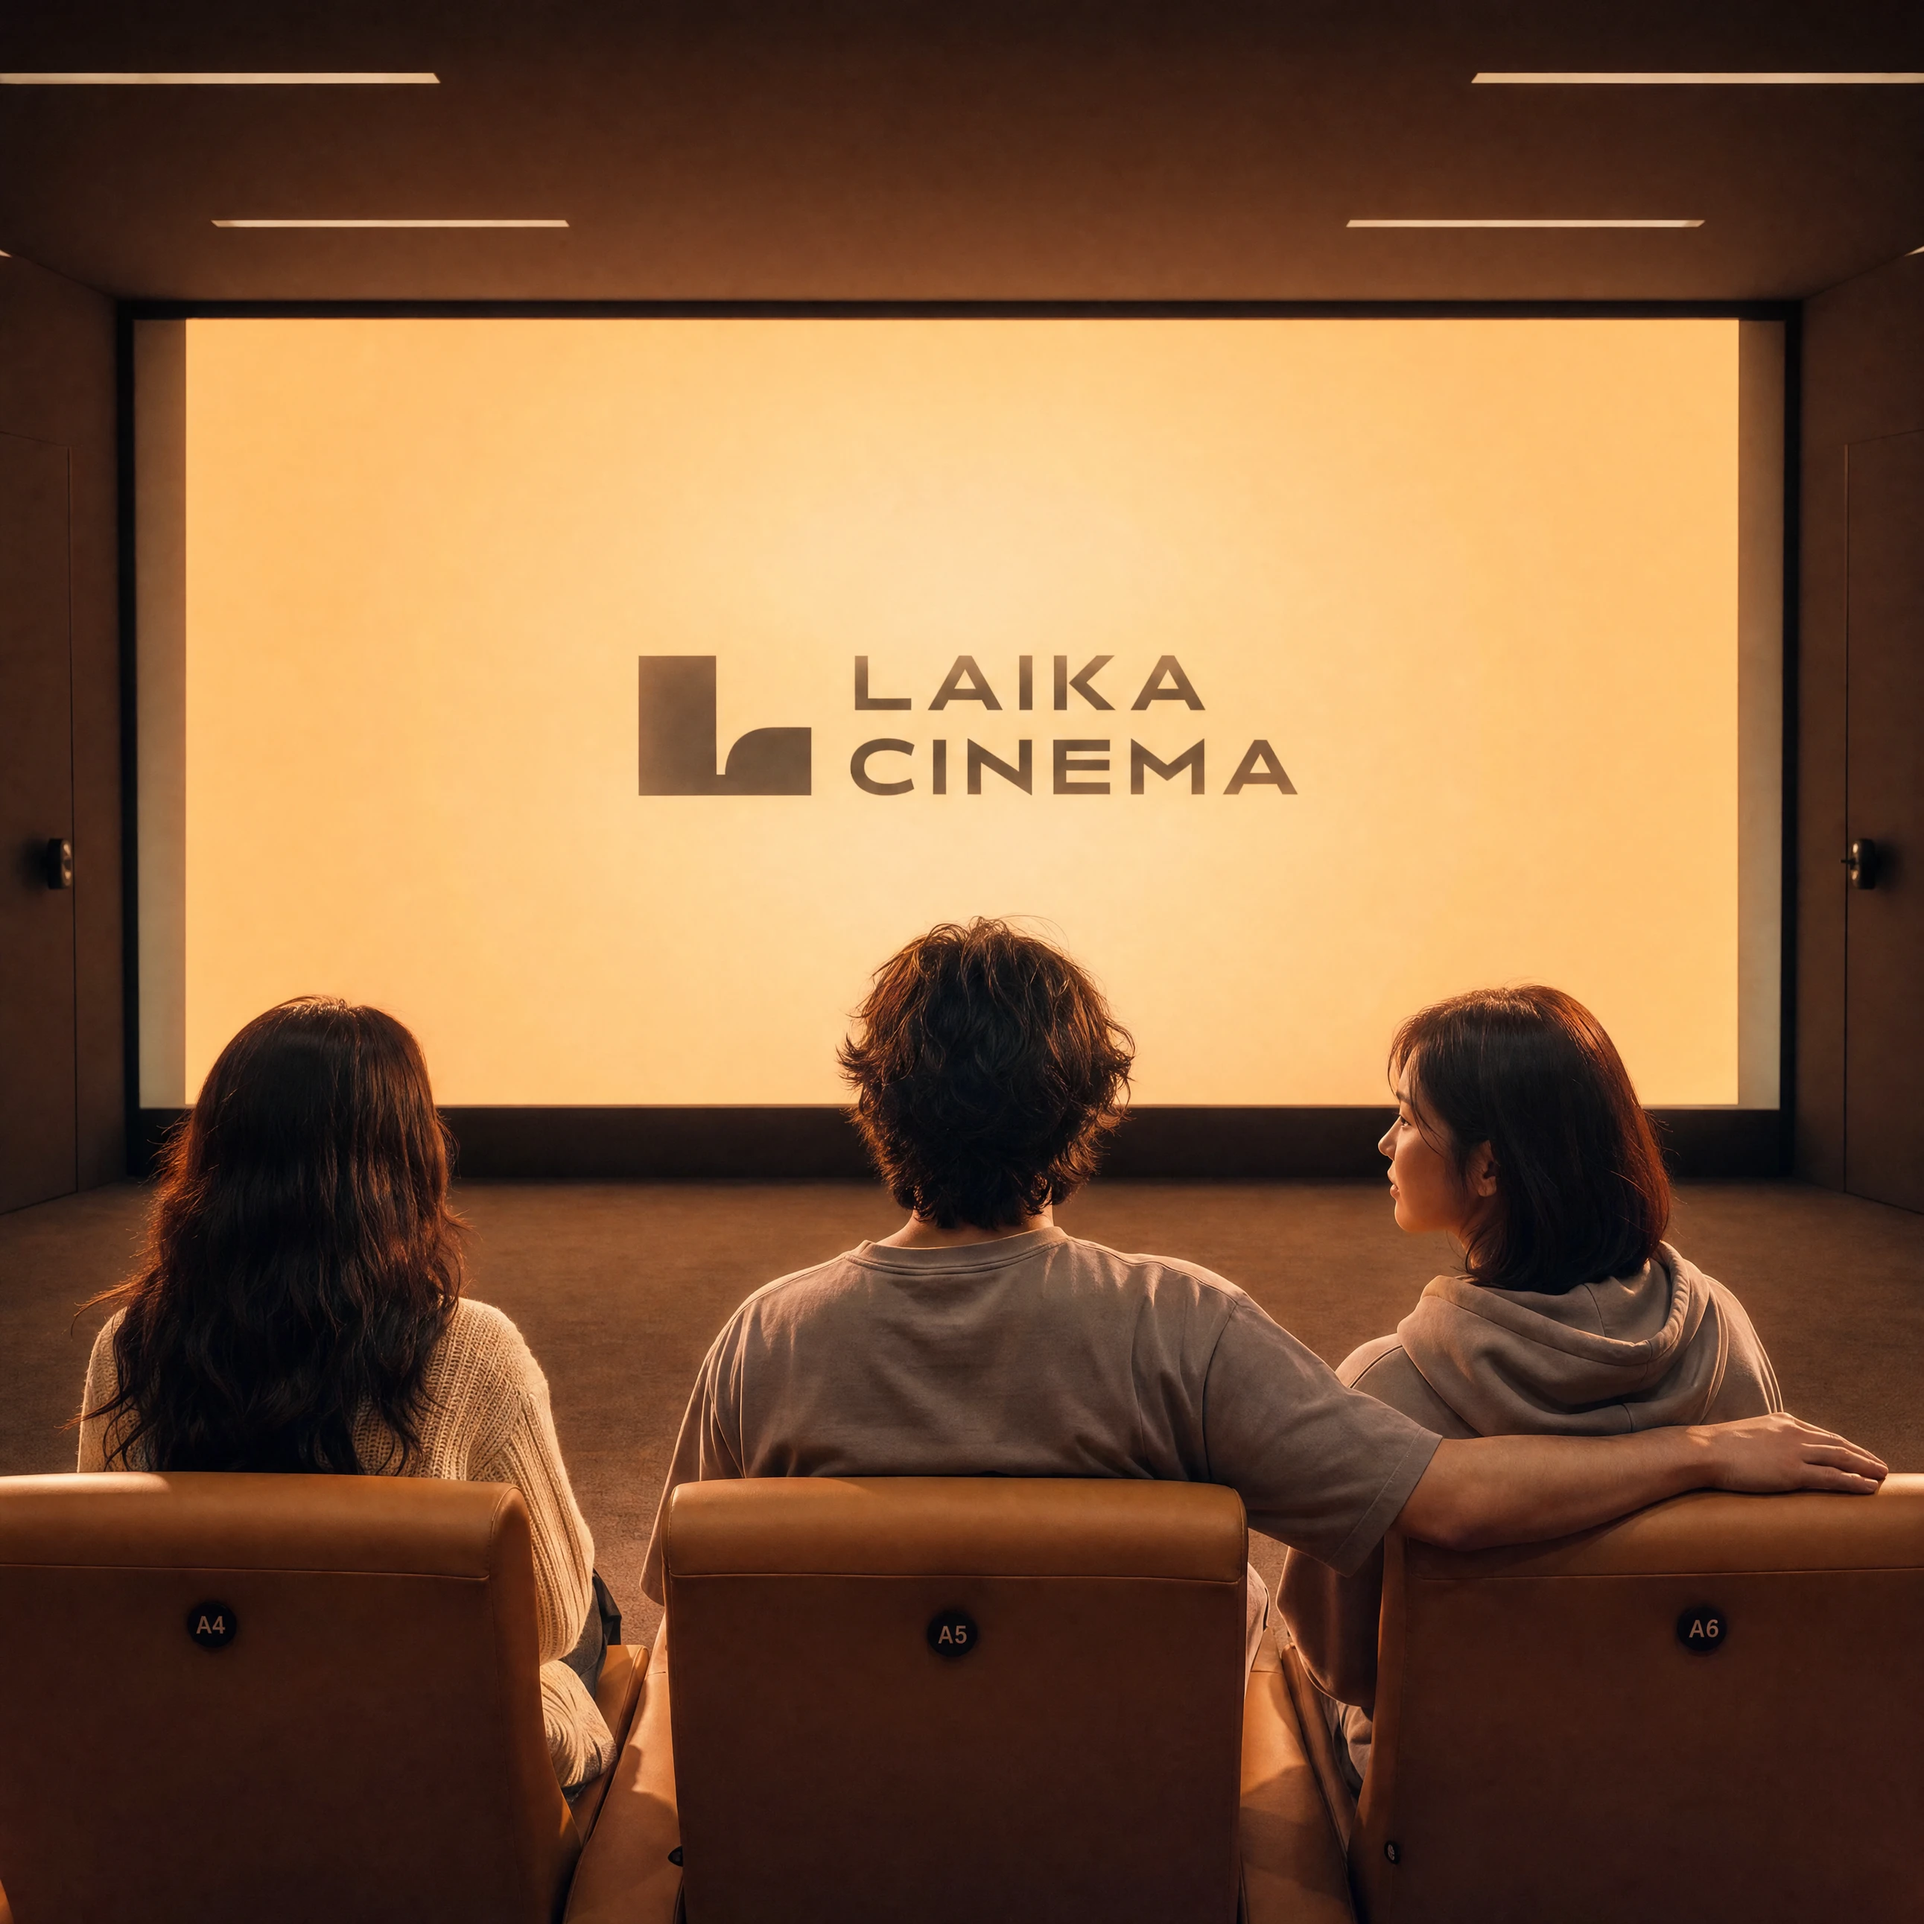
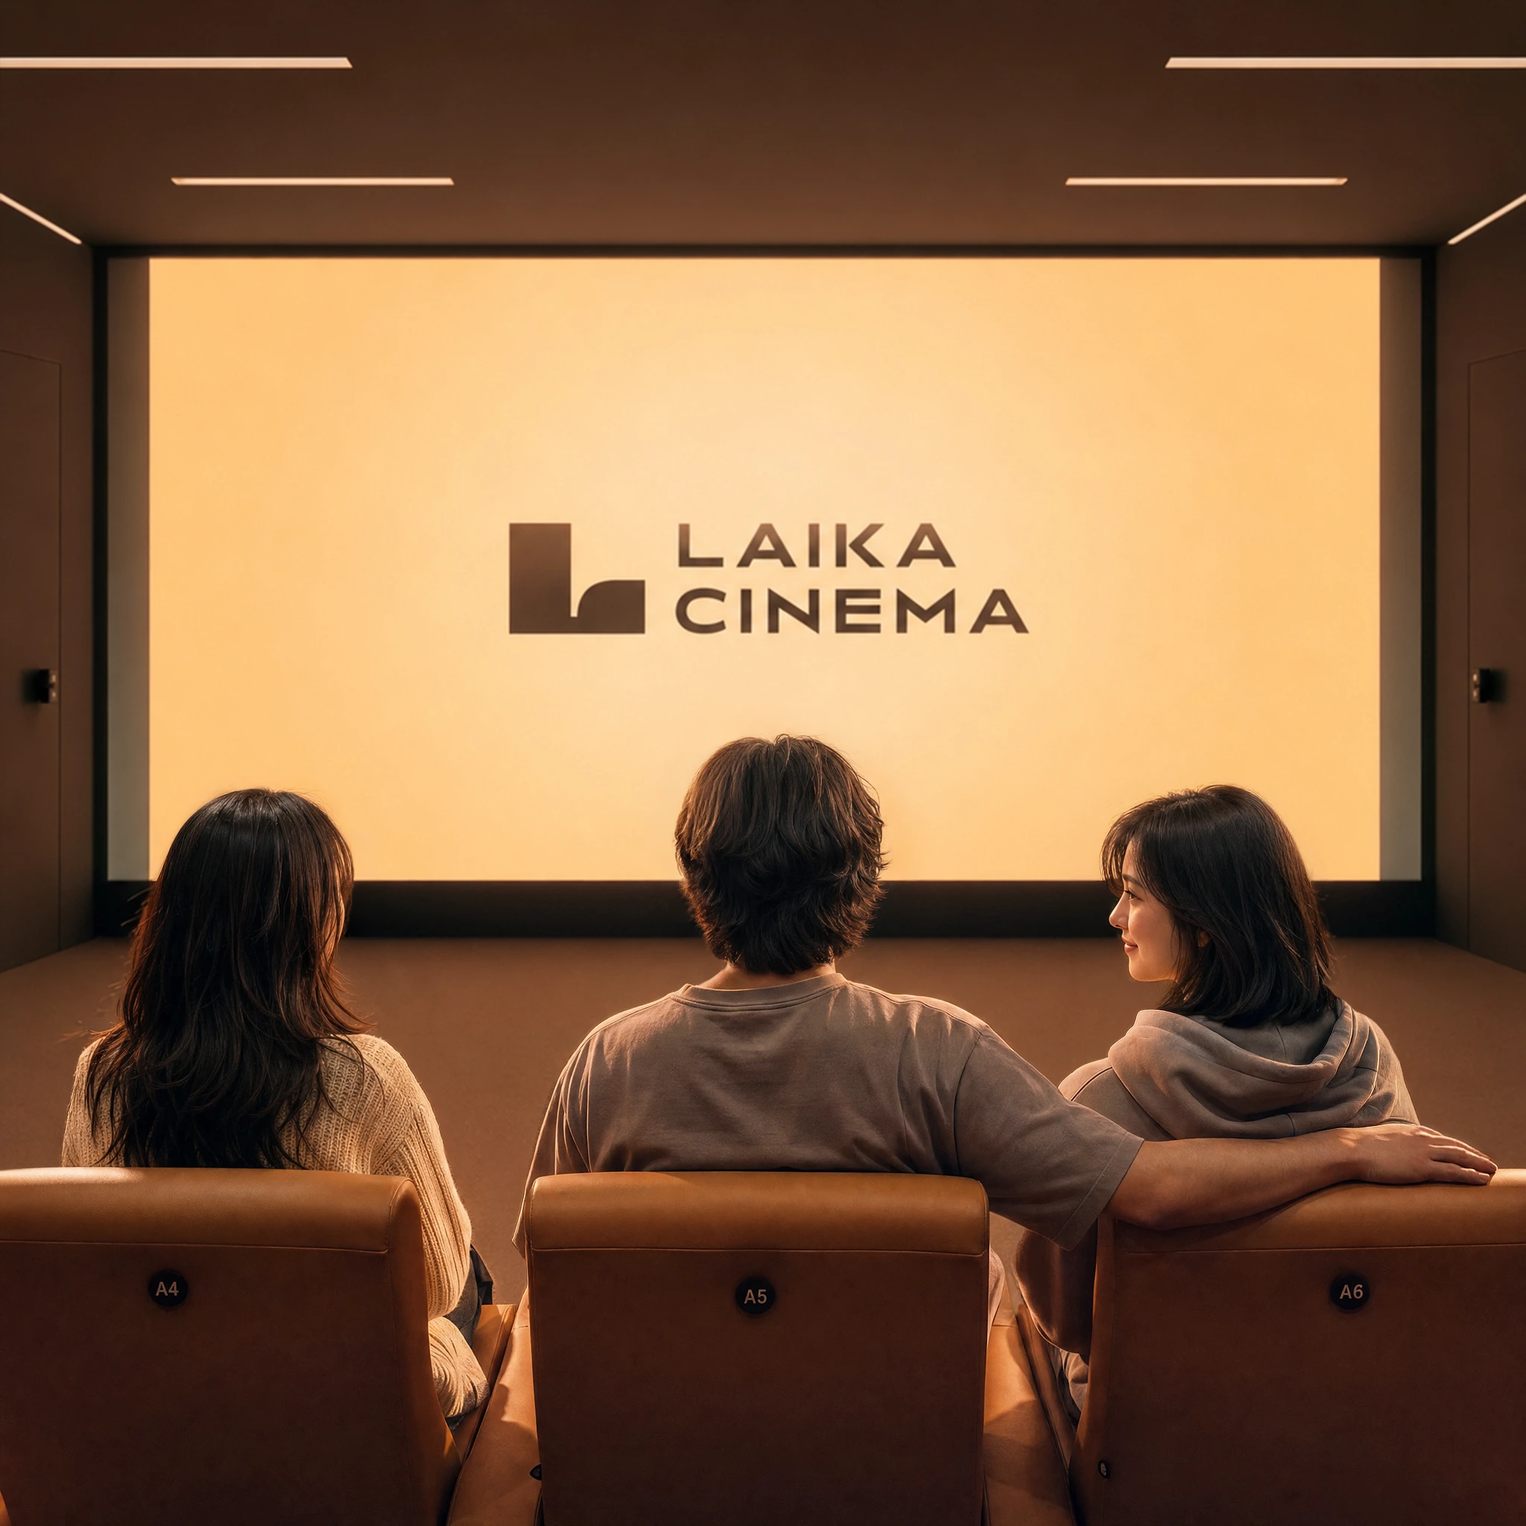
왕초보반 히어로 — 피그마 「교체 후」 확정판(image 692)으로 정정
GPT_high_4K 로컬본과 피그마에 실제 실린 판이 다른 생성본이었음 (픽셀 대조 0.0 vs 7.7)

diff --git a/basic.html b/basic.html
@@ -199,7 +199,7 @@ src="https://www.facebook.com/tr?id=771478541518631&ev=PageView&noscript=1"></no
 
 <!-- ══ 상페1 (3684:17907) — tools/basic_s1.py 가 만든다. 손대지 말 것 ══ -->
 <section class="bs-s1 bs-board" aria-labelledby="bs-title">
-  <img class="s1-hero" src="assets/img/basic/hero-cinema.webp?v=272f12b7" width="1722" height="1722" fetchpriority="high" alt="라이카 시네마 극장에서 수강생들이 자기 영상 상영을 보고 있다">
+  <img class="s1-hero" src="assets/img/basic/hero-cinema.webp?v=0aa69227" width="1722" height="1722" fetchpriority="high" alt="라이카 시네마 극장에서 수강생들이 자기 영상 상영을 보고 있다">
   <p class="s1-copy tb bs-rv">취미로 시작했는데<br>한 달 뒤 <b>극장</b>에서<br>내 영상이 상영됩니다.</p>
   <img class="s1-lock bs-rv" src="assets/img/basic/ico/lock-hero.svg?v=0a68631d" width="515" height="102" alt="FVA ACADEMY × 21STUDIOS">
   <h1 class="s1-basic bs-rv" id="bs-title"><span class="sr-only">BASIC CLASS</span><svg class="bs-tl bs-b-basicclass" aria-hidden="true" focusable="false" xmlns="http://www.w3.org/2000/svg" viewBox="0 0 4009.0 853.0"><g transform="scale(1.00000 1) translate(-45.0 836.0) scale(1 -1)" fill="currentColor"><path d="M45 -1H195L187 83H196C205 25 249 -1 305 -1C377 -1 444 56 444 157V301C444 385 385 434 323 432V436C384 439 434 487 434 575V661C434 753 374 821 267 821H45ZM257 128C241 127 206 132 190 138V362H239C276 362 299 345 299 305V188C299 154 289 129 257 128ZM236 494H190V692H239C268 692 289 667 289 641V546C289 516 265 494 236 494Z" transform="translate(0.0 -0.0)"/><path d="M18 -1H167L188 205H283L304 -1H453L330 821H141ZM201 334 229 606H242L270 334Z" transform="translate(427.0 -0.0)"/><path d="M227 -17C349 -17 417 67 417 195C417 326 367 380 321 432L252 509C229 535 185 576 181 648C179 683 198 706 228 706C257 706 273 682 274 650C275 627 275 597 274 574H416C417 596 417 625 416 647C411 760 353 836 227 836C101 836 37 760 37 646C37 552 73 490 111 448L174 379C238 308 272 271 272 177C272 142 257 118 227 118C196 118 186 144 180 180C177 199 179 245 184 274H42C37 233 32 200 40 140C53 43 113 -17 227 -17Z" transform="translate(843.0 -0.0)"/><path d="M50 -1H198V821H50Z" transform="translate(1240.0 -0.0)"/><path d="M248 -17C374 -17 448 62 448 171V305H303V168C303 143 286 116 247 116C210 116 188 143 188 168V650C188 676 210 703 247 703C286 703 303 676 303 650V519H448V647C448 759 374 836 248 836C121 836 43 759 43 647V171C43 62 121 -17 248 -17Z" transform="translate(1433.0 -0.0)"/><path d="M248 -17C374 -17 448 62 448 171V305H303V168C303 143 286 116 247 116C210 116 188 143 188 168V650C188 676 210 703 247 703C286 703 303 676 303 650V519H448V647C448 759 374 836 248 836C121 836 43 759 43 647V171C43 62 121 -17 248 -17Z" transform="translate(2014.0 -0.0)"/><path d="M45 -1H414V128H192V821H45Z" transform="translate(2450.0 -0.0)"/><path d="M18 -1H167L188 205H283L304 -1H453L330 821H141ZM201 334 229 606H242L270 334Z" transform="translate(2824.0 -0.0)"/><path d="M227 -17C349 -17 417 67 417 195C417 326 367 380 321 432L252 509C229 535 185 576 181 648C179 683 198 706 228 706C257 706 273 682 274 650C275 627 275 597 274 574H416C417 596 417 625 416 647C411 760 353 836 227 836C101 836 37 760 37 646C37 552 73 490 111 448L174 379C238 308 272 271 272 177C272 142 257 118 227 118C196 118 186 144 180 180C177 199 179 245 184 274H42C37 233 32 200 40 140C53 43 113 -17 227 -17Z" transform="translate(3240.0 -0.0)"/><path d="M227 -17C349 -17 417 67 417 195C417 326 367 380 321 432L252 509C229 535 185 576 181 648C179 683 198 706 228 706C257 706 273 682 274 650C275 627 275 597 274 574H416C417 596 417 625 416 647C411 760 353 836 227 836C101 836 37 760 37 646C37 552 73 490 111 448L174 379C238 308 272 271 272 177C272 142 257 118 227 118C196 118 186 144 180 180C177 199 179 245 184 274H42C37 233 32 200 40 140C53 43 113 -17 227 -17Z" transform="translate(3637.0 -0.0)"/></g></svg></h1>
